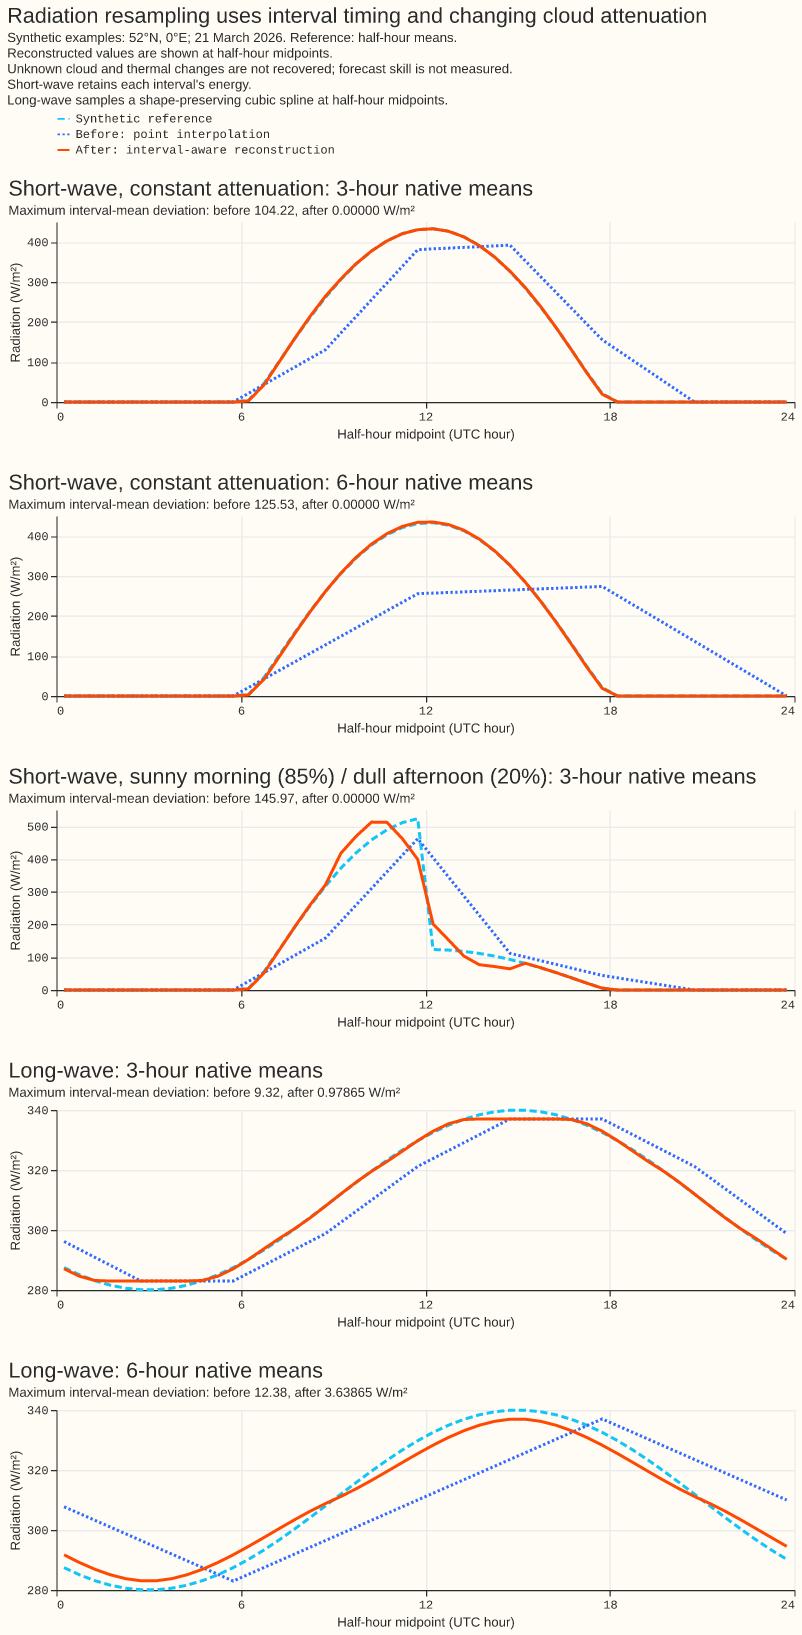
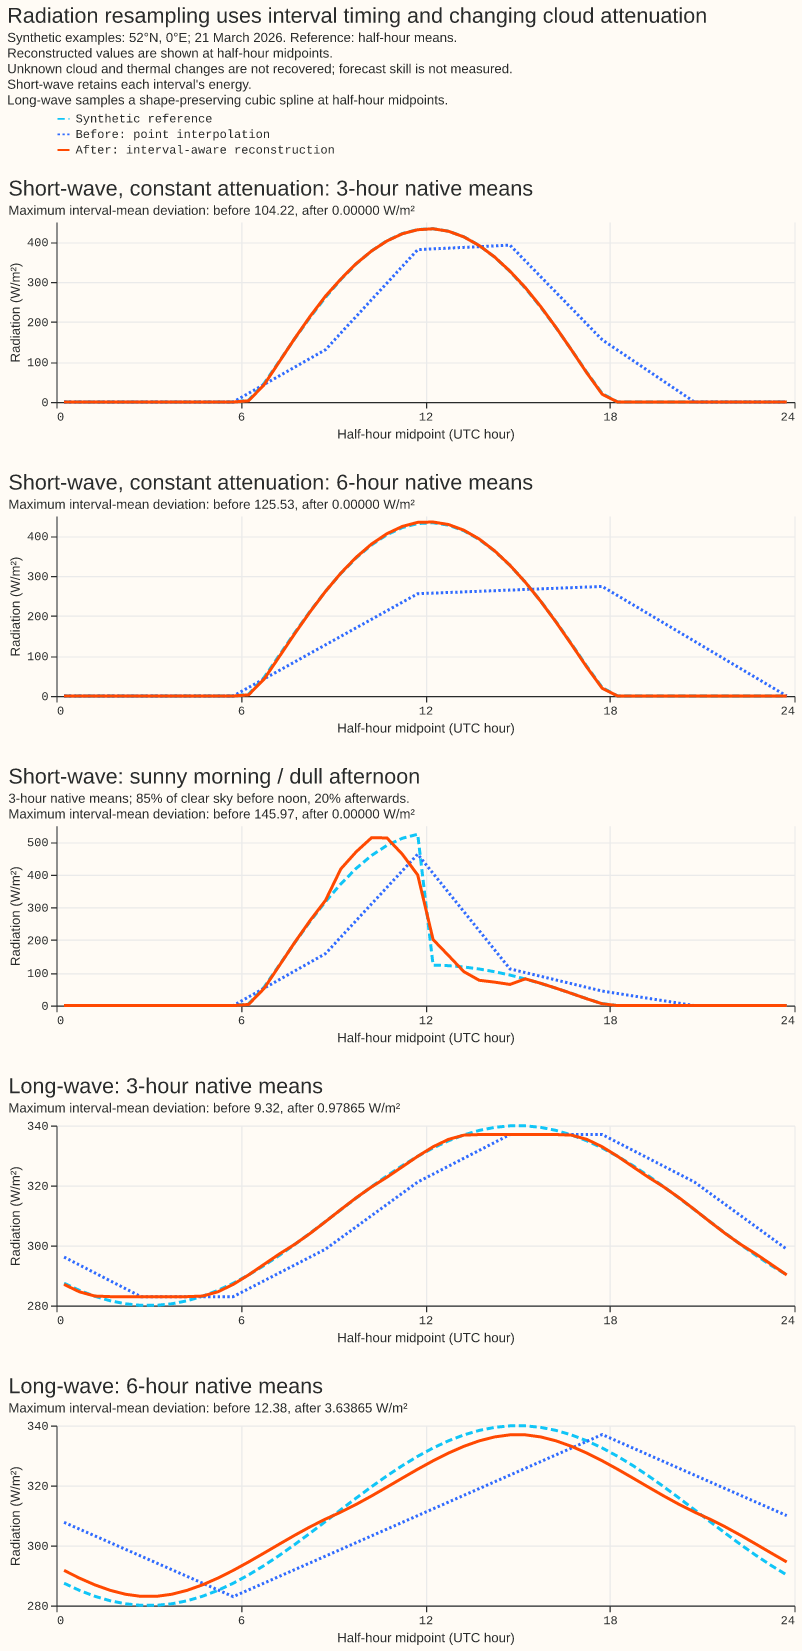
Apply additional correctness and detailed prose reviews
Repair the historical audit caller for interval-aware short-wave inputs and retain its saved evidence. Clarify radiation policies, plan wording, and the cloud-transition plot title.

diff --git a/studies/production_feature_faults/audit_production_features.py b/studies/production_feature_faults/audit_production_features.py
@@ -169,6 +169,9 @@ def source_probes() -> dict[str, pl.DataFrame]:
     truth = np.maximum(0, np.sin((half_hour_midpoint - 6) * np.pi / 12)) * 800
     radiation_parts = []
     metrics = []
+    coordinates = pl.DataFrame(
+        {"time_series_id": [0], "latitude": [52.0], "longitude": [0.0]}
+    ).lazy()
     for width in (3, 6):
         indices = np.arange(0, len(stamps), width * 2)
         native_values = [None] + [
@@ -178,12 +181,17 @@ def source_probes() -> dict[str, pl.DataFrame]:
             {
                 "time_series_id": [0] * len(indices),
                 "ensemble_member": [0] * len(indices),
-                "nwp_init_time": [start] * len(indices),
+                # Six-hour windows begin after lead 144 in the ECMWF schedule.
+                "nwp_init_time": [start - timedelta(hours=144 if width == 6 else 0)] * len(indices),
                 "valid_time": stamps.gather(indices),
                 RADIATION: native_values,
             }
         )
-        reconstructed = _upsample_nwp_to_half_hourly(native.lazy()).collect().sort("valid_time")
+        reconstructed = (
+            _upsample_nwp_to_half_hourly(native.lazy(), solar_coordinates=coordinates)
+            .collect()
+            .sort("valid_time")
+        )
         recovered = reconstructed[RADIATION].to_numpy()
         interior = (hours > 24) & (hours <= 48)
         x = hours[interior] - 24
@@ -199,14 +207,22 @@ def source_probes() -> dict[str, pl.DataFrame]:
                 "reconstructed_energy_kwh_m2": float(actual.sum() * 0.5 / 1000),
                 "dark_positive_rows": int(((original == 0) & (actual > 1)).sum()),
                 "eligible_rows": int(interior.sum()),
-                "leading_null_rows": int(np.isnan(recovered[: width * 2]).sum()),
+                "leading_null_rows": int(np.isnan(recovered[:1]).sum()),
             }
         )
         zero = native.with_columns(
             pl.when(pl.col(RADIATION).is_null()).then(None).otherwise(0.0).alias(RADIATION)
         )
-        zero_result = _upsample_nwp_to_half_hourly(zero.lazy()).collect()[RADIATION].drop_nulls()
-        if not (zero_result == 0).all() or not np.isnan(recovered[: width * 2]).all():
+        zero_result = (
+            _upsample_nwp_to_half_hourly(zero.lazy(), solar_coordinates=coordinates)
+            .collect()[RADIATION]
+            .drop_nulls()
+        )
+        if (
+            not (zero_result == 0).all()
+            or not np.isnan(recovered[0])
+            or not np.isfinite(recovered[1:]).all()
+        ):
             raise ValueError("radiation dark/leading-null control failed")
         radiation_parts.append(
             pl.DataFrame(

diff --git a/studies/radiation_resampling/plot_radiation_resampling.py b/studies/radiation_resampling/plot_radiation_resampling.py
@@ -235,11 +235,27 @@ def main() -> None:
             width=CONTENT_WIDTH_PX - 65,
             height=150,
             title=alt.TitleParams(
-                text=f"{label}: {width}-hour native means",
-                subtitle=(
-                    f"Maximum interval-mean deviation: before {errors[0]:.2f}, "
-                    f"after {errors[1]:.5f} W/m²"
+                text=(
+                    "Short-wave: sunny morning / dull afternoon"
+                    if cloudy
+                    else f"{label}: {width}-hour native means"
                 ),
+                subtitle=[
+                    *(
+                        [
+                            (
+                                f"{width}-hour native means; "
+                                "85% of clear sky before noon, 20% afterwards."
+                            )
+                        ]
+                        if cloudy
+                        else []
+                    ),
+                    (
+                        f"Maximum interval-mean deviation: before {errors[0]:.2f}, "
+                        f"after {errors[1]:.5f} W/m²"
+                    ),
+                ],
                 anchor="start",
             ),
         )

diff --git a/packages/ml_core/tests/test_radiation.py b/packages/ml_core/tests/test_radiation.py
@@ -82,8 +82,9 @@ def test_solar_geometry_against_independent_reference(
     actual = _half_hour_clear_sky(targets=targets.lazy(), coordinates=coordinates).collect()
     actual = actual.sort("valid_time")["_clear_sky"].to_numpy()
     expected = _reference_sky(times=times, latitude=latitude, longitude=longitude)
-    # NOAA fractional-year geometry is approximate; this absolute bound includes its sunrise
-    # error without accepting the multi-hour error from treating native means as snapshots.
+    # US National Oceanic and Atmospheric Administration (NOAA) fractional-year geometry is
+    # approximate; this absolute bound includes its sunrise error without accepting the multi-hour
+    # error from treating native means as snapshots.
     np.testing.assert_allclose(actual, expected, atol=12, rtol=0)
 
 

diff --git a/packages/ml_core/src/ml_core/features/_radiation.py b/packages/ml_core/src/ml_core/features/_radiation.py
@@ -24,8 +24,9 @@ DAYLIGHT_FLOOR_W_M2: Final[float] = 1.0
 def _half_hour_clear_sky(*, targets: pl.LazyFrame, coordinates: pl.LazyFrame) -> pl.LazyFrame:
     """Evaluate Haurwitz means using two 15-minute midpoint samples per target.
 
-    NOAA fractional-year solar geometry includes longitude and equation of time. Geometry is
-    independent of run/member, so compute it once per series and target timestamp.
+    US National Oceanic and Atmospheric Administration (NOAA) fractional-year solar geometry
+    includes longitude and equation of time. Geometry is independent of run/member, so compute it
+    once per series and target timestamp.
     """
     samples = (
         targets.select("time_series_id", "valid_time")

diff --git a/plans/issue-526-radiation-resampler.md b/plans/issue-526-radiation-resampler.md
@@ -6,8 +6,10 @@ support. The study demonstrates the short-wave timing defect independently of fo
 
 Replace point interpolation for the two radiation fields with interval-aware reconstruction.
 Short-wave follows a clear-sky shape with interpolated midpoint indices, then conserves each native
-window's energy. Long-wave fits PCHIP through native-window midpoint means. Keep raw NWP storage intact,
-use the same lazy feature path in training and inference, and defer precipitation, wind and TCC.
+window's energy. Long-wave fits a piecewise cubic Hermite interpolating polynomial (PCHIP) through
+native-window midpoint means. Keep raw numerical weather prediction (NWP) storage intact, use the
+same lazy feature path in training and inference, and defer precipitation, wind, and total cloud
+cover (TCC).
 
 ## Verdict, scope and process
 
@@ -21,7 +23,7 @@ by three independent implementation reviews (simplicity, correctness, mutation t
 Codex reviewers substitute for unavailable Claude models; disclose that substitution. The local
 implementation review requested by implement-issue is additional if available.
 
-- Contracts and storage: no Patito field, raw Delta schema, rounding or asset change. Regenerated
+- Contracts and storage: no Patito field, raw Delta schema, rounding, or asset change. Regenerated
   feature caches will differ. Do not narrow `Nwp.continuous_var_names()` in this PR.
 - Production serving: yes, `_engineer_features` uses the shared resampler during inference.
 - Degradation: yes, missing radiation windows and unusable solar denominators require a policy.
@@ -50,7 +52,7 @@ separately because the resampler currently treats every non-weather input column
 Use site coordinates consistently with the study; the raw source remains the containing H3 cell.
 
 In `_upsample_nwp_to_half_hourly`, separate the two radiation columns from the existing point
-interpolation list locally. Keep its group keys, categorical handling and non-radiation behavior.
+interpolation list locally. Keep its group keys, categorical handling, and non-radiation behavior.
 Create a native-window relation before grid expansion: every radiation mean at `T` belongs to
 `(T - width, T]`, with width 3 hours through lead 144 and 6 hours after that for the supported ECMWF
 model. Lead zero has no interval. Derive width from the model's native schedule, never from the
@@ -59,8 +61,9 @@ window as a wider accumulation. Reuse the native timestamp and group keys as win
 derive missingness from native radiation rather than adding a redundant mask column. Reuse
 `ECMWF_ENS_LEAD_TIME_HOURS` from contracts for the schedule instead of duplicating its constants.
 
-The new production `_radiation.py` helpers construct all 6/12 targets inside each supplied window
-at half-hour ends, before joining the existing output grid. A private expression in that module
+The new production `_radiation.py` helpers construct six target half-hours for each supplied 3-hour
+window and 12 target half-hours for each supplied 6-hour window, before joining the existing output
+grid. Target timestamps mark the ends of those half-hours. A private expression in that module
 evaluates a vectorised, dependency-free solar-position approximation in Polars, including
 longitude and equation of time, and Haurwitz irradiance. Use 15-minute midpoint quadrature: evaluate
 at `T - 22.5 min` and `T - 7.5 min` for a target half-hour. Average those half-hour means over each
@@ -71,9 +74,9 @@ Use the study's Haurwitz coefficient 0.059; its expression is the implementation
 than the roadmap's illustrative 0.057. Reference independent geometry in tests before choosing a
 documented accuracy tolerance near sunrise/sunset.
 
-For finite short-wave windows whose clear-sky mean reaches the documented daylight floor, form the
-native mean / native clear-sky mean and anchor it at the native window midpoint. Interpolate ratios
-in actual elapsed time at target midpoints inside contiguous supported daylight blocks. Detect
+For finite short-wave windows with a clear-sky mean of at least 1 W/m², divide the native radiation
+mean by the clear-sky mean and anchor the resulting index at the native window midpoint. Interpolate
+ratios in actual elapsed time at target midpoints inside contiguous supported daylight blocks. Detect
 support gaps from scheduled-window adjacency, not just adjacency among surviving daylight anchors.
 Define daylight blocks from night gaps in the generated half-hour clear-sky support, not from
 entirely dark native windows: northern UK summer nights can be shorter than a 6-hour window. Make
@@ -83,7 +86,9 @@ overlapping two daylight blocks contributes its same index to both; conservation
 once across that native window's complete target set. Do not interpolate a cloud-index trend
 from one day's sunset into the next day's sunrise. At sunrise/sunset
 hold the closest usable daylight ratio; never interpolate toward an artificial zero night ratio.
-Multiply by target half-hour clear-sky means, then rescale the targets within each complete native
+
+**Each complete short-wave window must conserve its supplied energy.** Multiply by target
+half-hour clear-sky means, then rescale the targets within each complete native
 window so `sum(target_mean * 1800 s) == native_mean * width_seconds` within Float32 tolerance.
 There is no clipping at clear-sky index 1: enhancement and quadrature error must not destroy energy.
 The value at a native timestamp becomes that final half-hour's mean, not the original 3/6-hour mean.
@@ -91,10 +96,11 @@ The value at a native timestamp becomes that final half-hour's mean, not the ori
 For long-wave, fit shape-preserving PCHIP through native-window midpoint means and evaluate at
 half-hour midpoints. Hold the nearest value outside the anchors within each contiguous source
 sequence; never bridge null or absent windows. One anchor gives a constant and two give a line.
-Prioritise smooth ML features over exact interval conservation, as requested in human review.
+Prioritise smooth machine learning (ML) features over exact interval conservation, as requested in
+human review.
 Join radiation targets onto the same output grid and remove all internal helper columns.
 Bulk and single-run feature paths then consume the identical corrected NWP relation before their
-existing joins, lags and rolling features. The output remains lazy and retains existing dtypes.
+existing joins, lags, and rolling features. The output remains lazy and retains existing dtypes.
 
 #### Main branches
 
@@ -176,7 +182,7 @@ Regression assertions that fail on current main for deliberately varying native 
    A constant-index clear day alone cannot test anchoring.
 3. Each finite complete short-wave window conserves `mean * duration`, including lead 144 to 150
    and the final lead-360 window. Long-wave matches an independent SciPy PCHIP reference through
-   interval midpoints, including the 3/6-hour transition, extrema and one/two-anchor sequences.
+   interval midpoints, including the 3/6-hour transition, extrema, and one/two-anchor sequences.
 4. The first finite interval supplies its early half-hours, lead zero remains null, and a missing
    middle source window remains null across its whole support. Current linear interpolation loses
    the first window and fills interior source nulls. Include an actually absent native row, not
@@ -213,14 +219,14 @@ Principles 3 (one execution path), 9 (provenance), and 11 (lazy computation) are
 is untouched, original null support survives, and both modes call the same lazy resampler. H1's
 absence-tolerant service is respected by null/fallback behavior; the plan adds no asset check or
 new failure-producing warning path. Malformed input and internal duplicate joins remain bugs.
-No new model feature, model-selection branch, asset or raw table is introduced. Conservation is a
+No new model feature, model-selection branch, asset, or raw table is introduced. Conservation is a
 constraint on reconstruction, not a claim to recover unknown within-window weather or improve
 forecast scores. Long-wave is absent from the current 24-feature model recipe.
 
 ## Documentation and rollout
 
 - `docs/architecture/nwp-variable-conventions.md`: describe actual backward half-hour output,
-  changed native-timestamp values, conservation, fallback and source-null behavior. Keep the old
+  changed native-timestamp values, conservation, fallback, and source-null behavior. Keep the old
   radiation section anchor if needed by existing inbound links, but rewrite its text in present
   tense. Preserve unresolved wind and temperature limitations.
 - `docs/roadmap/xgboost-improvements.md`: remove the completed radiation implementation recipe and

diff --git a/docs/studies/forecasts/production-feature-faults.md b/docs/studies/forecasts/production-feature-faults.md
@@ -60,12 +60,18 @@ neither receives an invented “corrected” score.
 
 ## Radiation: interval means are displaced and flattened
 
+**The radiation probe below records production behaviour before interval-aware resampling.** The
+saved figure and numbers remain a historical snapshot. Rerunning the audit now probes the updated
+resampler; see [radiation resampling](../../architecture/nwp-variable-conventions.md#radiation-resampling)
+for the current policy and before/after comparison.
+
 Each native radiation value is a mean over the **interval before its timestamp**. Here, “native”
-means the weather forecast’s original sampling grid. The current upsampler fills the half-hourly
-grid by drawing straight lines between the timestamped means. This spreads daylight energy later
-and flattens the daily peak. The independent synthetic probe aggregates half-hour backward means
-into three- or six-hour means before calling the current production upsampler. It therefore has a
-known answer, rather than treating a different interpolant as observed truth.
+means the weather forecast’s original sampling grid. The upsampler at the time of this study filled
+the half-hourly grid by drawing straight lines between the timestamped means. The interpolation
+spread daylight energy later and flattened the daily peak. The independent synthetic probe
+aggregated half-hour backward means into three- or six-hour means before calling that production
+upsampler. The probe has a known answer, rather than treating a different interpolant as observed
+truth.
 
 ![Synthetic radiation reconstruction shows delayed and flattened daylight energy.](../assets/production_feature_faults_radiation_probe.svg)
 

diff --git a/docs/architecture/nwp-variable-conventions.md b/docs/architecture/nwp-variable-conventions.md
@@ -170,9 +170,10 @@ rescaled so their mean equals the native mean; equivalently, the half-hour energ
 mean × native duration. This constraint can introduce boundary steps and does not recover unknown
 sub-window cloud changes. The index is not clipped at 1.
 
-**Fallbacks preserve energy when solar shaping is unusable.** If no usable index exists, use local
-solar weights; if all solar weights are zero, retain the source mean as a constant. A positive mean
-at a dark endpoint can label preceding daylight. A positive fully-dark source window instead takes
+**Fallbacks preserve energy when solar shaping is unusable.** If no usable index exists, distribute
+the native energy in proportion to the half-hour clear-sky means within that window. If all those
+means are zero, retain the source mean as a constant. A positive native mean whose timestamp falls
+after sunset can still describe a window containing daylight. A positive fully-dark source window takes
 the constant fallback, preserving energy rather than claiming both exact nighttime zero and
 conservation. Zero-energy windows output zero.
 

diff --git a/studies/production_feature_faults/README.md b/studies/production_feature_faults/README.md
@@ -3,7 +3,13 @@
 This study investigates Part 1 of issue 1156 through aggregate feature diagnostics and GPU
 forecast experiments. The report is
 [Production feature faults](https://openclimatefix.github.io/nged-substation-forecast/studies/forecasts/production-feature-faults/).
-All corrections are study-only; production files are unchanged.
+The corrections evaluated in this study were study-only.
+
+**Saved radiation probe results describe production before interval-aware resampling.** The audit
+calls the installed production implementation, so rerunning its source probes now measures the
+updated resampler. Keep new outputs separate from the historical results. The current policy and
+comparison are in the [radiation resampling
+explanation](https://openclimatefix.github.io/nged-substation-forecast/architecture/nwp-variable-conventions/#radiation-resampling).
 
 ## Inputs and scope
 
